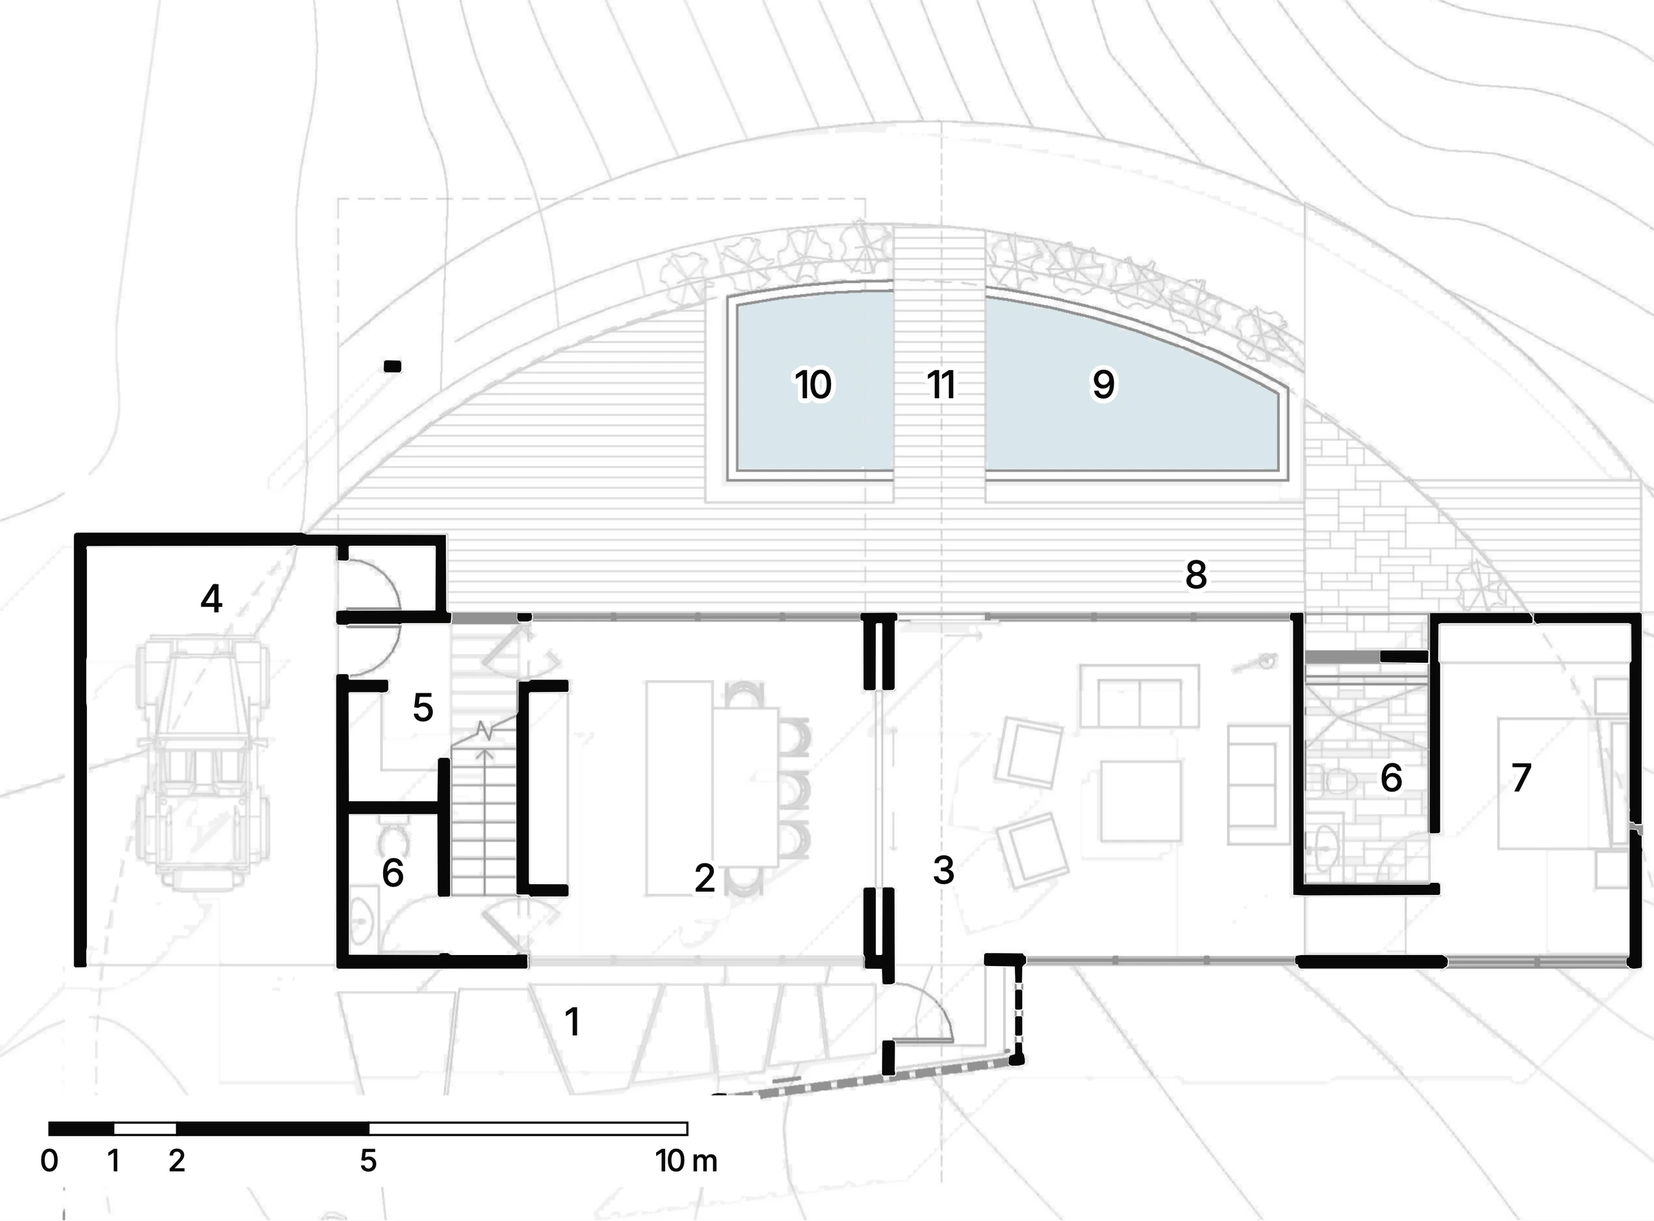
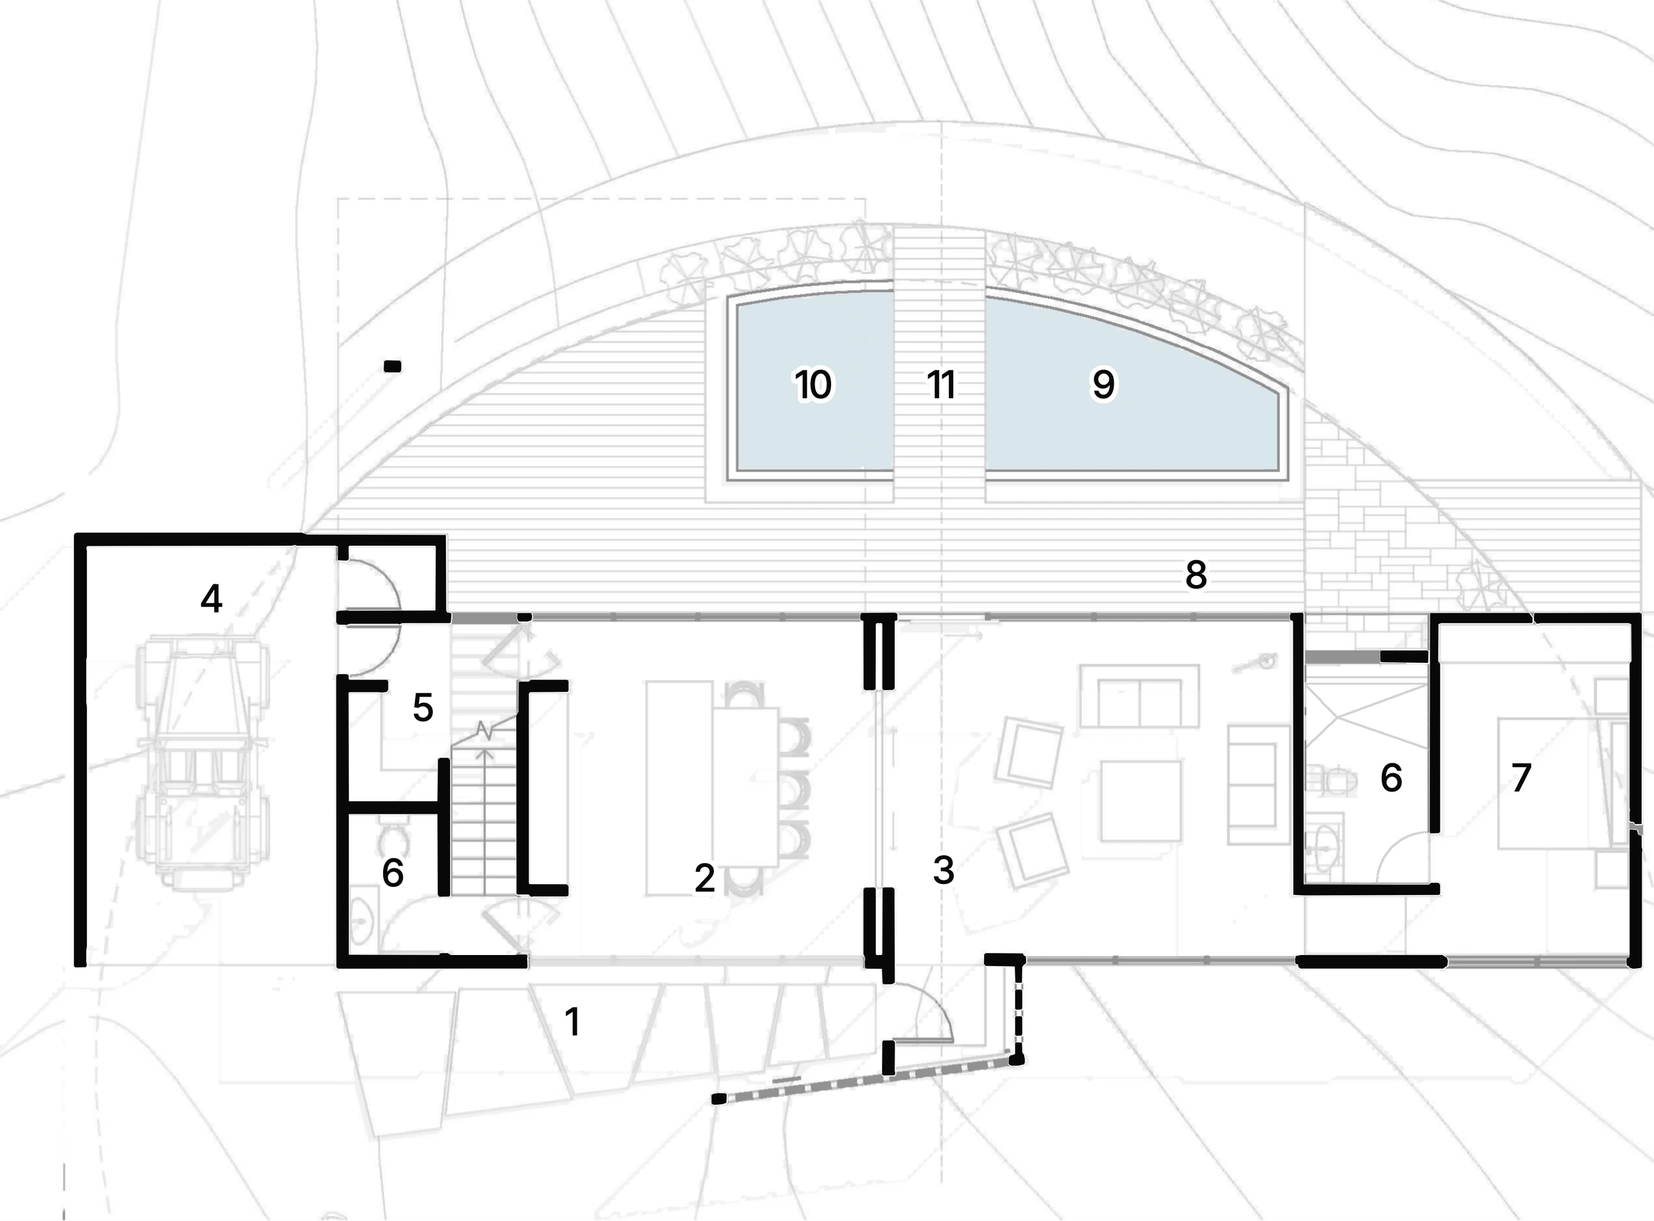
Kauhane plans without scale bars and without the stone floor in the bathroom; Kauhane and Hangars B built
The ground-floor bathroom carried the paving pattern of the terrace: it is
cleared, keeping the toilet and basin, with the shower curb, its falls and the
door swing drawn again. The web plans drop the scale bar (the print sheets keep
it). Kauhane House and Hangars B are now Built (Construida / Construidos).

Changed region(s): [[0.0312, 0.9001, 0.4375, 0.9622], [0.7812, 0.5277, 0.875, 0.6208], [0.8125, 0.6518, 0.8438, 0.7139]]

diff --git a/site/es/proyectos/kauhane-house/index.html b/site/es/proyectos/kauhane-house/index.html
@@ -57,7 +57,7 @@
         <div><dt>Tipología</dt><dd>Habitacional</dd></div>
         <div><dt>Ubicación</dt><dd>Playa Grande, Guanacaste</dd></div>
         <div><dt>Año</dt><dd>2021</dd></div>
-        <div><dt>Estado</dt><dd>En proceso</dd></div>
+        <div><dt>Estado</dt><dd>Construida</dd></div>
         <div><dt>Área del lote</dt><dd>1050 m² (11 300 ft²)</dd></div>
         <div><dt>Área construida</dt><dd>380 m² (4090 ft²)</dd></div>
       </dl>
@@ -74,9 +74,9 @@
       <figure class="gallery__item"><img src="../../../assets/img/projects/kauhane-house/5-1600.webp?v=144ca204" srcset="../../../assets/img/projects/kauhane-house/5-800.webp?v=144ca204 800w, ../../../assets/img/projects/kauhane-house/5-1600.webp?v=144ca204 1600w" sizes="(min-width: 768px) 46vw, 92vw" width="1600" height="900" loading="lazy" decoding="async" alt="Comedor bajo un cielo raso de reglilla de madera, con paredes de vidrio"></figure>
     </section>
     <section class="prow grid" aria-label="Planos">
-      <div class="prow__img" style="--c: 1 / span 4; --r: 1 / span 2"><picture><source media="(min-width: 768px)" srcset="../../../assets/img/projects/kauhane-house/6-d-800.webp?v=aebacf0e 800w, ../../../assets/img/projects/kauhane-house/6-d-1600.webp?v=aebacf0e 1600w, ../../../assets/img/projects/kauhane-house/6-d-2400.webp?v=aebacf0e 2400w, ../../../assets/img/projects/kauhane-house/6-d-3600.webp?v=aebacf0e 3600w" sizes="32vw" width="1600" height="1181"><img src="../../../assets/img/projects/kauhane-house/6-1600.webp?v=d619e568" srcset="../../../assets/img/projects/kauhane-house/6-800.webp?v=d619e568 800w, ../../../assets/img/projects/kauhane-house/6-1600.webp?v=d619e568 1600w" sizes="100vw" width="1600" height="1181" loading="lazy" decoding="async" alt="Planta baja, numerada: el garaje, la despensa y la escalera en un extremo, la cocina y el comedor, la sala, un dormitorio de visitas, y la piscina y la pasarela hacia el jardín"></picture></div>
+      <div class="prow__img" style="--c: 1 / span 4; --r: 1 / span 2"><picture><source media="(min-width: 768px)" srcset="../../../assets/img/projects/kauhane-house/6-d-800.webp?v=590fa72a 800w, ../../../assets/img/projects/kauhane-house/6-d-1600.webp?v=590fa72a 1600w, ../../../assets/img/projects/kauhane-house/6-d-2400.webp?v=590fa72a 2400w, ../../../assets/img/projects/kauhane-house/6-d-3600.webp?v=590fa72a 3600w" sizes="32vw" width="1600" height="1181"><img src="../../../assets/img/projects/kauhane-house/6-1600.webp?v=2b4ff4cc" srcset="../../../assets/img/projects/kauhane-house/6-800.webp?v=2b4ff4cc 800w, ../../../assets/img/projects/kauhane-house/6-1600.webp?v=2b4ff4cc 1600w" sizes="100vw" width="1600" height="1181" loading="lazy" decoding="async" alt="Planta baja, numerada: el garaje, la despensa y la escalera en un extremo, la cocina y el comedor, la sala, un dormitorio de visitas, y la piscina y la pasarela hacia el jardín"></picture></div>
       <div class="pplan__key prow__key" style="--c: 10 / -1; --r: 1"><p class="label">(Planta baja)</p><ol><li><b>1</b><span>Llegada</span></li><li><b>2</b><span>Cocina y comedor</span></li><li><b>3</b><span>Sala</span></li><li><b>4</b><span>Garaje y bodega</span></li><li><b>5</b><span>Despensa</span></li><li><b>6</b><span>Baño</span></li><li><b>7</b><span>Dormitorio de visitas</span></li><li><b>8</b><span>Ducha exterior</span></li><li><b>9</b><span>Piscina</span></li><li><b>10</b><span>Piscina de inmersión</span></li><li><b>11</b><span>Pasarela</span></li></ol></div>
-      <div class="prow__img" style="--c: 5 / span 4; --r: 1 / span 2"><picture><source media="(min-width: 768px)" srcset="../../../assets/img/projects/kauhane-house/7-d-800.webp?v=8d86845f 800w, ../../../assets/img/projects/kauhane-house/7-d-1600.webp?v=8d86845f 1600w, ../../../assets/img/projects/kauhane-house/7-d-2400.webp?v=8d86845f 2400w, ../../../assets/img/projects/kauhane-house/7-d-3600.webp?v=8d86845f 3600w" sizes="32vw" width="1600" height="1181"><img src="../../../assets/img/projects/kauhane-house/7-1600.webp?v=c3befdff" srcset="../../../assets/img/projects/kauhane-house/7-800.webp?v=c3befdff 800w, ../../../assets/img/projects/kauhane-house/7-1600.webp?v=c3befdff 1600w" sizes="100vw" width="1600" height="1181" loading="lazy" decoding="async" alt="Planta alta, numerada: el dormitorio principal con su clóset y baño, una terraza verde a un lado, y el techo sobre la sala"></picture></div>
+      <div class="prow__img" style="--c: 5 / span 4; --r: 1 / span 2"><picture><source media="(min-width: 768px)" srcset="../../../assets/img/projects/kauhane-house/7-d-800.webp?v=95653dff 800w, ../../../assets/img/projects/kauhane-house/7-d-1600.webp?v=95653dff 1600w, ../../../assets/img/projects/kauhane-house/7-d-2400.webp?v=95653dff 2400w, ../../../assets/img/projects/kauhane-house/7-d-3600.webp?v=95653dff 3600w" sizes="32vw" width="1600" height="1181"><img src="../../../assets/img/projects/kauhane-house/7-1600.webp?v=8d591a38" srcset="../../../assets/img/projects/kauhane-house/7-800.webp?v=8d591a38 800w, ../../../assets/img/projects/kauhane-house/7-1600.webp?v=8d591a38 1600w" sizes="100vw" width="1600" height="1181" loading="lazy" decoding="async" alt="Planta alta, numerada: el dormitorio principal con su clóset y baño, una terraza verde a un lado, y el techo sobre la sala"></picture></div>
       <div class="pplan__key prow__key" style="--c: 10 / -1; --r: 2"><p class="label">(Planta alta)</p><ol><li><b>1</b><span>Dormitorio principal</span></li><li><b>2</b><span>Clóset</span></li><li><b>3</b><span>Baño</span></li><li><b>4</b><span>Terraza verde</span></li><li><b>5</b><span>Techo sobre la sala</span></li></ol></div>
     </section>
     <section class="pview" aria-labelledby="pview-title">

diff --git a/site/projects/kauhane-house/index.html b/site/projects/kauhane-house/index.html
@@ -57,7 +57,7 @@
         <div><dt>Typology</dt><dd>Residential</dd></div>
         <div><dt>Location</dt><dd>Playa Grande, Guanacaste</dd></div>
         <div><dt>Year</dt><dd>2021</dd></div>
-        <div><dt>Status</dt><dd>In progress</dd></div>
+        <div><dt>Status</dt><dd>Built</dd></div>
         <div><dt>Site area</dt><dd>1,050 m² (11,300 ft²)</dd></div>
         <div><dt>Built area</dt><dd>380 m² (4,090 ft²)</dd></div>
       </dl>
@@ -74,9 +74,9 @@
       <figure class="gallery__item"><img src="../../assets/img/projects/kauhane-house/5-1600.webp?v=144ca204" srcset="../../assets/img/projects/kauhane-house/5-800.webp?v=144ca204 800w, ../../assets/img/projects/kauhane-house/5-1600.webp?v=144ca204 1600w" sizes="(min-width: 768px) 46vw, 92vw" width="1600" height="900" loading="lazy" decoding="async" alt="Dining room under a slatted timber ceiling with glass walls"></figure>
     </section>
     <section class="prow grid" aria-label="Plans">
-      <div class="prow__img" style="--c: 1 / span 4; --r: 1 / span 2"><picture><source media="(min-width: 768px)" srcset="../../assets/img/projects/kauhane-house/6-d-800.webp?v=aebacf0e 800w, ../../assets/img/projects/kauhane-house/6-d-1600.webp?v=aebacf0e 1600w, ../../assets/img/projects/kauhane-house/6-d-2400.webp?v=aebacf0e 2400w, ../../assets/img/projects/kauhane-house/6-d-3600.webp?v=aebacf0e 3600w" sizes="32vw" width="1600" height="1181"><img src="../../assets/img/projects/kauhane-house/6-1600.webp?v=d619e568" srcset="../../assets/img/projects/kauhane-house/6-800.webp?v=d619e568 800w, ../../assets/img/projects/kauhane-house/6-1600.webp?v=d619e568 1600w" sizes="100vw" width="1600" height="1181" loading="lazy" decoding="async" alt="Ground floor plan, numbered: the garage, pantry and stair at one end, kitchen and dining, the living room, a guest bedroom, and the pool and catwalk on the garden side"></picture></div>
+      <div class="prow__img" style="--c: 1 / span 4; --r: 1 / span 2"><picture><source media="(min-width: 768px)" srcset="../../assets/img/projects/kauhane-house/6-d-800.webp?v=590fa72a 800w, ../../assets/img/projects/kauhane-house/6-d-1600.webp?v=590fa72a 1600w, ../../assets/img/projects/kauhane-house/6-d-2400.webp?v=590fa72a 2400w, ../../assets/img/projects/kauhane-house/6-d-3600.webp?v=590fa72a 3600w" sizes="32vw" width="1600" height="1181"><img src="../../assets/img/projects/kauhane-house/6-1600.webp?v=2b4ff4cc" srcset="../../assets/img/projects/kauhane-house/6-800.webp?v=2b4ff4cc 800w, ../../assets/img/projects/kauhane-house/6-1600.webp?v=2b4ff4cc 1600w" sizes="100vw" width="1600" height="1181" loading="lazy" decoding="async" alt="Ground floor plan, numbered: the garage, pantry and stair at one end, kitchen and dining, the living room, a guest bedroom, and the pool and catwalk on the garden side"></picture></div>
       <div class="pplan__key prow__key" style="--c: 10 / -1; --r: 1"><p class="label">(Ground floor)</p><ol><li><b>1</b><span>Arrival</span></li><li><b>2</b><span>Kitchen and dining</span></li><li><b>3</b><span>Living</span></li><li><b>4</b><span>Garage and storage</span></li><li><b>5</b><span>Pantry</span></li><li><b>6</b><span>Bathroom</span></li><li><b>7</b><span>Guest bedroom</span></li><li><b>8</b><span>Outdoor shower</span></li><li><b>9</b><span>Pool</span></li><li><b>10</b><span>Plunge pool</span></li><li><b>11</b><span>Catwalk</span></li></ol></div>
-      <div class="prow__img" style="--c: 5 / span 4; --r: 1 / span 2"><picture><source media="(min-width: 768px)" srcset="../../assets/img/projects/kauhane-house/7-d-800.webp?v=8d86845f 800w, ../../assets/img/projects/kauhane-house/7-d-1600.webp?v=8d86845f 1600w, ../../assets/img/projects/kauhane-house/7-d-2400.webp?v=8d86845f 2400w, ../../assets/img/projects/kauhane-house/7-d-3600.webp?v=8d86845f 3600w" sizes="32vw" width="1600" height="1181"><img src="../../assets/img/projects/kauhane-house/7-1600.webp?v=c3befdff" srcset="../../assets/img/projects/kauhane-house/7-800.webp?v=c3befdff 800w, ../../assets/img/projects/kauhane-house/7-1600.webp?v=c3befdff 1600w" sizes="100vw" width="1600" height="1181" loading="lazy" decoding="async" alt="Upper floor plan, numbered: the main bedroom with its closet and bathroom, a green terrace beside it, and the roof over the living room"></picture></div>
+      <div class="prow__img" style="--c: 5 / span 4; --r: 1 / span 2"><picture><source media="(min-width: 768px)" srcset="../../assets/img/projects/kauhane-house/7-d-800.webp?v=95653dff 800w, ../../assets/img/projects/kauhane-house/7-d-1600.webp?v=95653dff 1600w, ../../assets/img/projects/kauhane-house/7-d-2400.webp?v=95653dff 2400w, ../../assets/img/projects/kauhane-house/7-d-3600.webp?v=95653dff 3600w" sizes="32vw" width="1600" height="1181"><img src="../../assets/img/projects/kauhane-house/7-1600.webp?v=8d591a38" srcset="../../assets/img/projects/kauhane-house/7-800.webp?v=8d591a38 800w, ../../assets/img/projects/kauhane-house/7-1600.webp?v=8d591a38 1600w" sizes="100vw" width="1600" height="1181" loading="lazy" decoding="async" alt="Upper floor plan, numbered: the main bedroom with its closet and bathroom, a green terrace beside it, and the roof over the living room"></picture></div>
       <div class="pplan__key prow__key" style="--c: 10 / -1; --r: 2"><p class="label">(Upper floor)</p><ol><li><b>1</b><span>Main bedroom</span></li><li><b>2</b><span>Closet</span></li><li><b>3</b><span>Bathroom</span></li><li><b>4</b><span>Green terrace</span></li><li><b>5</b><span>Roof over the living room</span></li></ol></div>
     </section>
     <section class="pview" aria-labelledby="pview-title">

diff --git a/site/es/arquitectos/index.html b/site/es/arquitectos/index.html
@@ -132,27 +132,27 @@
           </a>
         </li>
         <li class="card">
-          <a class="card__link" href="../../es/proyectos/portland-house/">
-            <span class="card__media"><img src="../../assets/img/projects/portland-house/1-1600.webp?v=49e63442" srcset="../../assets/img/projects/portland-house/1-800.webp?v=49e63442 800w, ../../assets/img/projects/portland-house/1-1600.webp?v=49e63442 1600w" sizes="(min-width: 768px) 31vw, 92vw" width="1600" height="900" loading="lazy" decoding="async" alt="Casa de un piso con piscina bajo un techo plano y profundo, con vista a una bahía"></span>
-            <span class="card__cap label"><span class="card__name">Portland House</span><span class="card__meta">Huacas</span></span>
-          </a>
-        </li>
-        <li class="card">
           <a class="card__link" href="../../es/proyectos/hangars-b/">
             <span class="card__media"><img src="../../assets/img/projects/hangars-b/1-1600.webp?v=e401786e" srcset="../../assets/img/projects/hangars-b/1-800.webp?v=e401786e 800w, ../../assets/img/projects/hangars-b/1-1600.webp?v=e401786e 1600w" sizes="(min-width: 768px) 31vw, 92vw" width="1448" height="1086" loading="lazy" decoding="async" alt="Edificio de hangares de dos pisos marcado 01, con un techo profundo sobre naves abiertas"></span>
             <span class="card__cap label"><span class="card__name">Hangars B</span><span class="card__meta">Huacas</span></span>
           </a>
         </li>
         <li class="card">
-          <a class="card__link" href="../../es/proyectos/tragaluz-retreat/">
-            <span class="card__media"><img src="../../assets/img/projects/tragaluz-retreat/1-1600.webp?v=85b0992f" srcset="../../assets/img/projects/tragaluz-retreat/1-800.webp?v=85b0992f 800w, ../../assets/img/projects/tragaluz-retreat/1-1600.webp?v=85b0992f 1600w" sizes="(min-width: 768px) 31vw, 92vw" width="1600" height="900" loading="lazy" decoding="async" alt="Pabellón con deck de madera y un espejo de agua entre árboles al atardecer"></span>
-            <span class="card__cap label"><span class="card__name">Tragaluz Retreat</span><span class="card__meta">Playa Negra</span></span>
-          </a>
-        </li>
-        <li class="card">
           <a class="card__link" href="../../es/proyectos/kauhane-house/">
             <span class="card__media"><img src="../../assets/img/projects/kauhane-house/1-1600.webp?v=42444a64" srcset="../../assets/img/projects/kauhane-house/1-800.webp?v=42444a64 800w, ../../assets/img/projects/kauhane-house/1-1600.webp?v=42444a64 1600w" sizes="(min-width: 768px) 31vw, 92vw" width="1600" height="900" loading="lazy" decoding="async" alt="Casa de dos pisos con un muro de piedra, un balcón de vidrio y una piscina entre árboles"></span>
             <span class="card__cap label"><span class="card__name">Kauhane House</span><span class="card__meta">Playa Grande</span></span>
+          </a>
+        </li>
+        <li class="card">
+          <a class="card__link" href="../../es/proyectos/portland-house/">
+            <span class="card__media"><img src="../../assets/img/projects/portland-house/1-1600.webp?v=49e63442" srcset="../../assets/img/projects/portland-house/1-800.webp?v=49e63442 800w, ../../assets/img/projects/portland-house/1-1600.webp?v=49e63442 1600w" sizes="(min-width: 768px) 31vw, 92vw" width="1600" height="900" loading="lazy" decoding="async" alt="Casa de un piso con piscina bajo un techo plano y profundo, con vista a una bahía"></span>
+            <span class="card__cap label"><span class="card__name">Portland House</span><span class="card__meta">Huacas</span></span>
+          </a>
+        </li>
+        <li class="card">
+          <a class="card__link" href="../../es/proyectos/tragaluz-retreat/">
+            <span class="card__media"><img src="../../assets/img/projects/tragaluz-retreat/1-1600.webp?v=85b0992f" srcset="../../assets/img/projects/tragaluz-retreat/1-800.webp?v=85b0992f 800w, ../../assets/img/projects/tragaluz-retreat/1-1600.webp?v=85b0992f 1600w" sizes="(min-width: 768px) 31vw, 92vw" width="1600" height="900" loading="lazy" decoding="async" alt="Pabellón con deck de madera y un espejo de agua entre árboles al atardecer"></span>
+            <span class="card__cap label"><span class="card__name">Tragaluz Retreat</span><span class="card__meta">Playa Negra</span></span>
           </a>
         </li>
       </ol>

diff --git a/site/architects/index.html b/site/architects/index.html
@@ -132,27 +132,27 @@
           </a>
         </li>
         <li class="card">
-          <a class="card__link" href="../projects/portland-house/">
-            <span class="card__media"><img src="../assets/img/projects/portland-house/1-1600.webp?v=49e63442" srcset="../assets/img/projects/portland-house/1-800.webp?v=49e63442 800w, ../assets/img/projects/portland-house/1-1600.webp?v=49e63442 1600w" sizes="(min-width: 768px) 31vw, 92vw" width="1600" height="900" loading="lazy" decoding="async" alt="Single-storey pool house under a deep flat roof, looking over a bay"></span>
-            <span class="card__cap label"><span class="card__name">Portland House</span><span class="card__meta">Huacas</span></span>
-          </a>
-        </li>
-        <li class="card">
           <a class="card__link" href="../projects/hangars-b/">
             <span class="card__media"><img src="../assets/img/projects/hangars-b/1-1600.webp?v=e401786e" srcset="../assets/img/projects/hangars-b/1-800.webp?v=e401786e 800w, ../assets/img/projects/hangars-b/1-1600.webp?v=e401786e 1600w" sizes="(min-width: 768px) 31vw, 92vw" width="1448" height="1086" loading="lazy" decoding="async" alt="Two-storey hangar building marked 01 with a deep roof over open bays"></span>
             <span class="card__cap label"><span class="card__name">Hangars B</span><span class="card__meta">Huacas</span></span>
           </a>
         </li>
         <li class="card">
-          <a class="card__link" href="../projects/tragaluz-retreat/">
-            <span class="card__media"><img src="../assets/img/projects/tragaluz-retreat/1-1600.webp?v=85b0992f" srcset="../assets/img/projects/tragaluz-retreat/1-800.webp?v=85b0992f 800w, ../assets/img/projects/tragaluz-retreat/1-1600.webp?v=85b0992f 1600w" sizes="(min-width: 768px) 31vw, 92vw" width="1600" height="900" loading="lazy" decoding="async" alt="Pavilion house with a timber deck and a reflecting pool among trees at dusk"></span>
-            <span class="card__cap label"><span class="card__name">Tragaluz Retreat</span><span class="card__meta">Playa Negra</span></span>
-          </a>
-        </li>
-        <li class="card">
           <a class="card__link" href="../projects/kauhane-house/">
             <span class="card__media"><img src="../assets/img/projects/kauhane-house/1-1600.webp?v=42444a64" srcset="../assets/img/projects/kauhane-house/1-800.webp?v=42444a64 800w, ../assets/img/projects/kauhane-house/1-1600.webp?v=42444a64 1600w" sizes="(min-width: 768px) 31vw, 92vw" width="1600" height="900" loading="lazy" decoding="async" alt="Two-storey house with a stone wall, a glass balcony and a pool among trees"></span>
             <span class="card__cap label"><span class="card__name">Kauhane House</span><span class="card__meta">Playa Grande</span></span>
+          </a>
+        </li>
+        <li class="card">
+          <a class="card__link" href="../projects/portland-house/">
+            <span class="card__media"><img src="../assets/img/projects/portland-house/1-1600.webp?v=49e63442" srcset="../assets/img/projects/portland-house/1-800.webp?v=49e63442 800w, ../assets/img/projects/portland-house/1-1600.webp?v=49e63442 1600w" sizes="(min-width: 768px) 31vw, 92vw" width="1600" height="900" loading="lazy" decoding="async" alt="Single-storey pool house under a deep flat roof, looking over a bay"></span>
+            <span class="card__cap label"><span class="card__name">Portland House</span><span class="card__meta">Huacas</span></span>
+          </a>
+        </li>
+        <li class="card">
+          <a class="card__link" href="../projects/tragaluz-retreat/">
+            <span class="card__media"><img src="../assets/img/projects/tragaluz-retreat/1-1600.webp?v=85b0992f" srcset="../assets/img/projects/tragaluz-retreat/1-800.webp?v=85b0992f 800w, ../assets/img/projects/tragaluz-retreat/1-1600.webp?v=85b0992f 1600w" sizes="(min-width: 768px) 31vw, 92vw" width="1600" height="900" loading="lazy" decoding="async" alt="Pavilion house with a timber deck and a reflecting pool among trees at dusk"></span>
+            <span class="card__cap label"><span class="card__name">Tragaluz Retreat</span><span class="card__meta">Playa Negra</span></span>
           </a>
         </li>
       </ol>

diff --git a/site/es/proyectos/hangars-b/index.html b/site/es/proyectos/hangars-b/index.html
@@ -57,7 +57,7 @@
         <div><dt>Tipología</dt><dd>Aviación / uso mixto</dd></div>
         <div><dt>Ubicación</dt><dd>Huacas, Guanacaste</dd></div>
         <div><dt>Año</dt><dd>2024</dd></div>
-        <div><dt>Estado</dt><dd>En proceso</dd></div>
+        <div><dt>Estado</dt><dd>Construidos</dd></div>
         <div><dt>Área del lote</dt><dd>4000 m² (43 060 ft²)</dd></div>
         <div><dt>Área construida</dt><dd>1600 m² (17 220 ft²)</dd></div>
       </dl>

diff --git a/site/projects/hangars-b/index.html b/site/projects/hangars-b/index.html
@@ -57,7 +57,7 @@
         <div><dt>Typology</dt><dd>Aviation / mixed use</dd></div>
         <div><dt>Location</dt><dd>Huacas, Guanacaste</dd></div>
         <div><dt>Year</dt><dd>2024</dd></div>
-        <div><dt>Status</dt><dd>In progress</dd></div>
+        <div><dt>Status</dt><dd>Built</dd></div>
         <div><dt>Site area</dt><dd>4,000 m² (43,060 ft²)</dd></div>
         <div><dt>Built area</dt><dd>1,600 m² (17,220 ft²)</dd></div>
       </dl>
